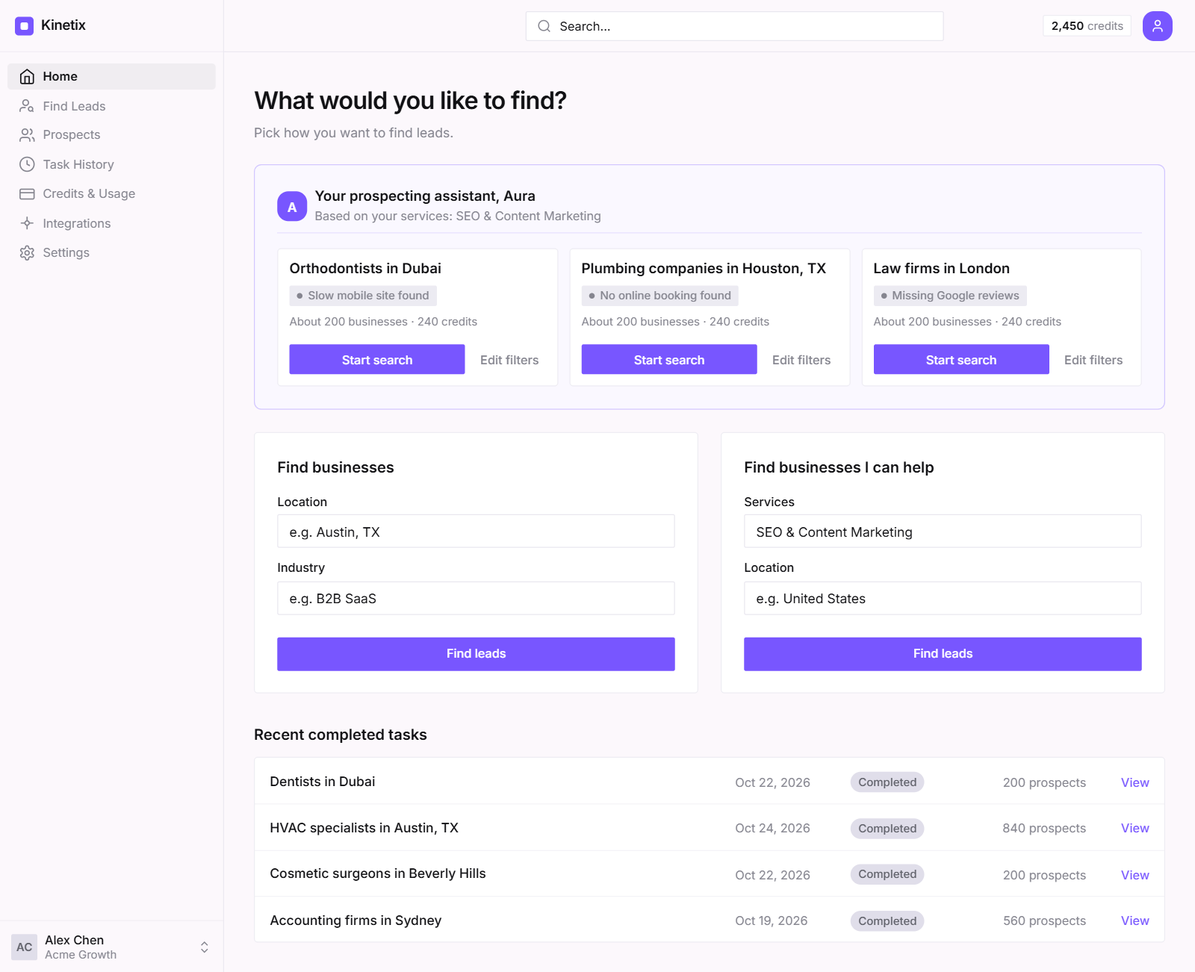
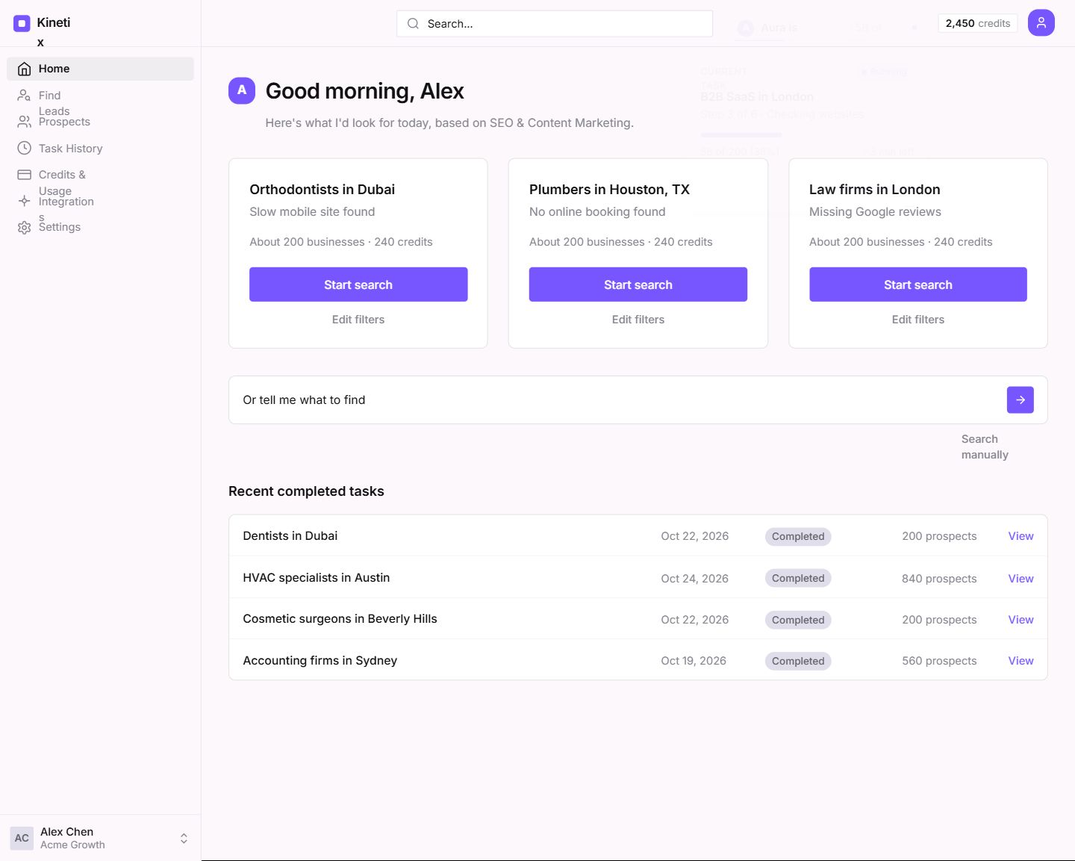
feat(dashboard): configure Kinetix design tokens and typography

diff --git a/apps/dashboard/design-reference/home.html b/apps/dashboard/design-reference/home.html
@@ -73,65 +73,105 @@
       } 
     } 
   } 
-};</script></head><body class="bg-background text-[#111114] antialiased"><aside class="fixed left-0 top-0 h-full w-60 bg-surface border-r border-outline-variant/30 z-50 flex flex-col justify-between"><div class="flex flex-col"><div class="h-14 flex items-center px-space-lg border-b border-outline-variant/20"><div class="flex items-center gap-space-sm"><div class="w-5 h-5 rounded-lg bg-primary-container flex items-center justify-center"><div class="w-2 h-2 rounded bg-white"></div></div><span class="text-[15px] font-semibold tracking-tight text-[#111114]">Kinetix</span></div></div><nav class="flex flex-col gap-space-xs px-space-sm py-space-md" data-active-classes="bg-surface-container text-[#111114] font-semibold"><a aria-current="page" class="flex items-center gap-space-sm px-space-md py-space-xs rounded-lg transition-colors bg-surface-container text-[#111114] font-semibold text-[13px]" data-path="home" href="#"><svg class="w-[18px] h-[18px] shrink-0 text-[#111114]" fill="none" stroke="currentColor" stroke-width="1.8" viewBox="0 0 24 24"><path d="m3 9 9-7 9 7v11a2 2 0 0 1-2 2H5a2 2 0 0 1-2-2z"></path><polyline points="9 22 9 12 15 12 15 22"></polyline></svg><span class="">Home</span></a><a class="flex items-center gap-space-sm px-space-md py-space-xs rounded-lg text-[13px] text-[#85858F] hover:bg-surface-container-high hover:text-[#111114] transition-colors" data-path="find-leads" href="#"><svg class="w-[18px] h-[18px] shrink-0" fill="none" stroke="currentColor" stroke-width="1.8" viewBox="0 0 24 24"><circle cx="10" cy="8" r="4"></circle><path d="M2 21v-2a4 4 0 0 1 4-4h4"></path><circle cx="17" cy="17" r="3"></circle><path d="m21 21-1.5-1.5"></path></svg><span class="">Find Leads</span></a><a class="flex items-center gap-space-sm px-space-md py-space-xs rounded-lg text-[13px] text-[#85858F] hover:bg-surface-container-high hover:text-[#111114] transition-colors" data-path="prospects" href="#"><svg class="w-[18px] h-[18px] shrink-0" fill="none" stroke="currentColor" stroke-width="1.8" viewBox="0 0 24 24"><path d="M16 21v-2a4 4 0 0 0-4-4H6a4 4 0 0 0-4 4v2"></path><circle cx="9" cy="7" r="4"></circle><path d="M22 21v-2a4 4 0 0 0-3-3.87"></path><path d="M16 3.13a4 4 0 0 1 0 7.75"></path></svg><span class="">Prospects</span></a><a class="flex items-center gap-space-sm px-space-md py-space-xs rounded-lg text-[13px] text-[#85858F] hover:bg-surface-container-high hover:text-[#111114] transition-colors" data-path="task-history" href="#"><svg class="w-[18px] h-[18px] shrink-0" fill="none" stroke="currentColor" stroke-width="1.8" viewBox="0 0 24 24"><circle cx="12" cy="12" r="10"></circle><polyline points="12 6 12 12 16 14"></polyline></svg><span class="">Task History</span></a><a class="flex items-center gap-space-sm px-space-md py-space-xs rounded-lg text-[13px] text-[#85858F] hover:bg-surface-container-high hover:text-[#111114] transition-colors" data-path="credits-&amp;-usage" href="#"><svg class="w-[18px] h-[18px] shrink-0" fill="none" stroke="currentColor" stroke-width="1.8" viewBox="0 0 24 24"><rect width="20" height="14" x="2" y="5" rx="2"></rect><line x1="2" x2="22" y1="10" y2="10"></line></svg><span class="">Credits &amp; Usage</span></a><a class="flex items-center gap-space-sm px-space-md py-space-xs rounded-lg text-[13px] text-[#85858F] hover:bg-surface-container-high hover:text-[#111114] transition-colors" data-path="integrations" href="#"><svg class="w-[18px] h-[18px] shrink-0" fill="none" stroke="currentColor" stroke-width="1.8" viewBox="0 0 24 24"><circle cx="12" cy="12" r="3"></circle><path d="M12 3v6m0 6v6M3 12h6m6 0h6"></path></svg><span class="">Integrations</span></a><a class="flex items-center gap-space-sm px-space-md py-space-xs rounded-lg text-[13px] text-[#85858F] hover:bg-surface-container-high hover:text-[#111114] transition-colors" data-path="settings" href="#"><svg class="w-[18px] h-[18px] shrink-0" fill="none" stroke="currentColor" stroke-width="1.8" viewBox="0 0 24 24"><path d="M12.22 2h-.44a2 2 0 0 0-2 2v.18a2 2 0 0 1-1 1.73l-.43.25a2 2 0 0 1-2 0l-.15-.08a2 2 0 0 0-2.73.73l-.22.38a2 2 0 0 0 .73 2.73l.15.1a2 2 0 0 1 1 1.72v.51a2 2 0 0 1-1 1.74l-.15.09a2 2 0 0 0-.73 2.73l.22.38a2 2 0 0 0 2.73.73l.15-.08a2 2 0 0 1 2 0l.43.25a2 2 0 0 1 1 1.73V20a2 2 0 0 0 2 2h.44a2 2 0 0 0 2-2v-.18a2 2 0 0 1 1-1.73l.43-.25a2 2 0 0 1 2 0l.15.08a2 2 0 0 0 2.73-.73l.22-.39a2 2 0 0 0-.73-2.73l-.15-.08a2 2 0 0 1-1-1.74v-.5a2 2 0 0 1 1-1.74l.15-.09a2 2 0 0 0 .73-2.73l-.22-.38a2 2 0 0 0-2.73-.73l-.15.08a2 2 0 0 1-2 0l-.43-.25a2 2 0 0 1-1-1.73V4a2 2 0 0 0-2-2z"></path><circle cx="12" cy="12" r="3"></circle></svg><span class="">Settings</span></a></nav></div><div class="p-space-sm border-t border-outline-variant/20"><button class="w-full flex items-center justify-between p-space-xs rounded-lg hover:bg-surface-container transition-colors text-left" type="button"><div class="flex items-center gap-space-sm min-w-0 flex-1"><div class="w-7 h-7 rounded bg-secondary-container flex items-center justify-center shrink-0"><span class="text-[12px] text-on-secondary-container font-semibold">AC</span></div><div class="flex flex-col truncate"><span class="text-[13px] text-[#111114] font-medium truncate leading-tight">Alex Chen</span><span class="text-[12px] text-[#85858F] truncate leading-tight">Acme Growth</span></div></div><svg class="w-4 h-4 text-[#85858F] shrink-0 ml-1" fill="none" stroke="currentColor" stroke-width="1.8" viewBox="0 0 24 24"><path d="m7 15 5 5 5-5"></path><path d="m7 9 5-5 5 5"></path></svg></button></div></aside><div class="pl-60 min-h-screen flex flex-col"><header class="fixed top-0 left-60 right-0 h-14 bg-surface/95 backdrop-blur-sm border-b border-outline-variant/30 z-40 px-space-xl flex items-center justify-between gap-space-lg"><div class="w-48 shrink-0"></div><div class="flex-1 max-w-md"><div class="relative flex items-center"><svg class="w-4 h-4 absolute left-3 text-[#85858F] pointer-events-none" fill="none" stroke="currentColor" stroke-width="1.8" viewBox="0 0 24 24"><circle cx="11" cy="11" r="8"></circle><path d="m21 21-4.3-4.3"></path></svg><input class="w-full h-8 pl-9 pr-space-md bg-surface-container-lowest border border-outline-variant/40 rounded text-[13px] text-[#111114] placeholder:text-[#85858F] focus:outline-none focus:border-[#7856FF] transition-colors" placeholder="Search..." type="text"></div></div><div class="flex items-center gap-space-md shrink-0"><div class="flex items-center gap-space-xs px-space-sm py-0.5 border border-outline-variant/30 rounded bg-surface-container-lowest"><span class="text-[12px] text-[#111114] font-semibold">2,450</span><span class="text-[12px] text-[#85858F]">credits</span></div><div class="w-8 h-8 rounded-full bg-[#7856FF] flex items-center justify-center text-white shadow-xs"><svg class="w-4 h-4" fill="none" stroke="currentColor" stroke-width="2" viewBox="0 0 24 24"><path d="M19 21v-2a4 4 0 0 0-4-4H9a4 4 0 0 0-4 4v2"></path><circle cx="12" cy="7" r="4"></circle></svg></div></div></header><main class="w-full pt-14 flex-1"><div class="flex flex-col w-full">
+};</script></head><body class="bg-background text-[#111114] antialiased"><aside class="fixed left-0 top-0 h-full w-60 bg-surface border-r border-outline-variant/30 z-50 flex flex-col justify-between"><div class="flex flex-col"><div class="h-14 flex items-center px-space-lg border-b border-outline-variant/20"><div class="flex items-center gap-space-sm"><div class="w-5 h-5 rounded-lg bg-primary-container flex items-center justify-center"><div class="w-2 h-2 rounded bg-white"></div></div><span class="text-[15px] font-semibold tracking-tight text-[#111114]">Kinetix</span></div></div><nav class="flex flex-col gap-space-xs px-space-sm py-space-md" data-active-classes="bg-surface-container text-[#111114] font-semibold"><a aria-current="page" class="flex items-center gap-space-sm px-space-md py-space-xs rounded-lg transition-colors bg-surface-container text-[#111114] font-semibold text-[13px]" data-path="home" href="#"><svg class="w-[18px] h-[18px] shrink-0 text-[#111114]" fill="none" stroke="currentColor" stroke-width="1.8" viewBox="0 0 24 24"><path d="m3 9 9-7 9 7v11a2 2 0 0 1-2 2H5a2 2 0 0 1-2-2z"></path><polyline points="9 22 9 12 15 12 15 22"></polyline></svg><span class="">Home</span></a><a class="flex items-center gap-space-sm px-space-md py-space-xs rounded-lg text-[13px] text-[#85858F] hover:bg-surface-container-high hover:text-[#111114] transition-colors" data-path="find-leads" href="#"><svg class="w-[18px] h-[18px] shrink-0" fill="none" stroke="currentColor" stroke-width="1.8" viewBox="0 0 24 24"><circle cx="10" cy="8" r="4"></circle><path d="M2 21v-2a4 4 0 0 1 4-4h4"></path><circle cx="17" cy="17" r="3"></circle><path d="m21 21-1.5-1.5"></path></svg><span class="">Find Leads</span></a><a class="flex items-center gap-space-sm px-space-md py-space-xs rounded-lg text-[13px] text-[#85858F] hover:bg-surface-container-high hover:text-[#111114] transition-colors" data-path="prospects" href="#"><svg class="w-[18px] h-[18px] shrink-0" fill="none" stroke="currentColor" stroke-width="1.8" viewBox="0 0 24 24"><path d="M16 21v-2a4 4 0 0 0-4-4H6a4 4 0 0 0-4 4v2"></path><circle cx="9" cy="7" r="4"></circle><path d="M22 21v-2a4 4 0 0 0-3-3.87"></path><path d="M16 3.13a4 4 0 0 1 0 7.75"></path></svg><span class="">Prospects</span></a><a class="flex items-center gap-space-sm px-space-md py-space-xs rounded-lg text-[13px] text-[#85858F] hover:bg-surface-container-high hover:text-[#111114] transition-colors" data-path="task-history" href="#"><svg class="w-[18px] h-[18px] shrink-0" fill="none" stroke="currentColor" stroke-width="1.8" viewBox="0 0 24 24"><circle cx="12" cy="12" r="10"></circle><polyline points="12 6 12 12 16 14"></polyline></svg><span class="">Task History</span></a><a class="flex items-center gap-space-sm px-space-md py-space-xs rounded-lg text-[13px] text-[#85858F] hover:bg-surface-container-high hover:text-[#111114] transition-colors" data-path="credits-&amp;-usage" href="#"><svg class="w-[18px] h-[18px] shrink-0" fill="none" stroke="currentColor" stroke-width="1.8" viewBox="0 0 24 24"><rect height="14" rx="2" width="20" x="2" y="5"></rect><line x1="2" x2="22" y1="10" y2="10"></line></svg><span class="">Credits &amp; Usage</span></a><a class="flex items-center gap-space-sm px-space-md py-space-xs rounded-lg text-[13px] text-[#85858F] hover:bg-surface-container-high hover:text-[#111114] transition-colors" data-path="integrations" href="#"><svg class="w-[18px] h-[18px] shrink-0" fill="none" stroke="currentColor" stroke-width="1.8" viewBox="0 0 24 24"><circle cx="12" cy="12" r="3"></circle><path d="M12 3v6m0 6v6M3 12h6m6 0h6"></path></svg><span class="">Integrations</span></a><a class="flex items-center gap-space-sm px-space-md py-space-xs rounded-lg text-[13px] text-[#85858F] hover:bg-surface-container-high hover:text-[#111114] transition-colors" data-path="settings" href="#"><svg class="w-[18px] h-[18px] shrink-0" fill="none" stroke="currentColor" stroke-width="1.8" viewBox="0 0 24 24"><path d="M12.22 2h-.44a2 2 0 0 0-2 2v.18a2 2 0 0 1-1 1.73l-.43.25a2 2 0 0 1-2 0l-.15-.08a2 2 0 0 0-2.73.73l-.22.38a2 2 0 0 0 .73 2.73l.15.1a2 2 0 0 1 1 1.72v.51a2 2 0 0 1-1 1.74l-.15.09a2 2 0 0 0-.73 2.73l.22.38a2 2 0 0 0 2.73.73l.15-.08a2 2 0 0 1 2 0l.43.25a2 2 0 0 1 1 1.73V20a2 2 0 0 0 2 2h.44a2 2 0 0 0 2-2v-.18a2 2 0 0 1 1-1.73l.43-.25a2 2 0 0 1 2 0l.15.08a2 2 0 0 0 2.73-.73l.22-.39a2 2 0 0 0-.73-2.73l-.15-.08a2 2 0 0 1-1-1.74v-.5a2 2 0 0 1 1-1.74l.15-.09a2 2 0 0 0 .73-2.73l-.22-.38a2 2 0 0 0-2.73-.73l-.15.08a2 2 0 0 1-2 0l-.43-.25a2 2 0 0 1-1-1.73V4a2 2 0 0 0-2-2z"></path><circle cx="12" cy="12" r="3"></circle></svg><span class="">Settings</span></a></nav></div><div class="p-space-sm border-t border-outline-variant/20"><button class="w-full flex items-center justify-between p-space-xs rounded-lg hover:bg-surface-container transition-colors text-left" type="button"><div class="flex items-center gap-space-sm min-w-0 flex-1"><div class="w-7 h-7 rounded bg-secondary-container flex items-center justify-center shrink-0"><span class="text-[12px] text-on-secondary-container font-semibold">AC</span></div><div class="flex flex-col truncate"><span class="text-[13px] text-[#111114] font-medium truncate leading-tight">Alex Chen</span><span class="text-[12px] text-[#85858F] truncate leading-tight">Acme Growth</span></div></div><svg class="w-4 h-4 text-[#85858F] shrink-0 ml-1" fill="none" stroke="currentColor" stroke-width="1.8" viewBox="0 0 24 24"><path d="m7 15 5 5 5-5"></path><path d="m7 9 5-5 5 5"></path></svg></button></div></aside><div class="pl-60 min-h-screen flex flex-col"><header class="fixed top-0 left-60 right-0 h-14 bg-surface/95 backdrop-blur-sm border-b border-outline-variant/30 z-40 px-space-xl flex items-center justify-between gap-space-lg"><div class="w-48 shrink-0"></div><div class="flex-1 max-w-md"><div class="relative flex items-center"><svg class="w-4 h-4 absolute left-3 text-[#85858F] pointer-events-none" fill="none" stroke="currentColor" stroke-width="1.8" viewBox="0 0 24 24"><circle cx="11" cy="11" r="8"></circle><path d="m21 21-4.3-4.3"></path></svg><input class="w-full h-8 pl-9 pr-space-md bg-surface-container-lowest border border-outline-variant/40 rounded text-[13px] text-[#111114] placeholder:text-[#85858F] focus:outline-none focus:border-[#7856FF] transition-colors" placeholder="Search..." type="text"></div></div><div class="flex items-center gap-space-md shrink-0"><div class="relative flex items-center"><div class="relative flex items-center gap-2 px-3 py-1.5 rounded-full border border-neutral-200 bg-white shadow-xs cursor-pointer overflow-hidden"><div class="w-5 h-5 rounded-full bg-[#7856FF] text-white flex items-center justify-center text-[11px] font-bold shrink-0">A</div><span class="text-[13px] font-medium text-[#111114]">Aura is working</span><span class="text-[13px] text-[#85858F]">· 58 of 200</span><span class="w-1.5 h-1.5 rounded-full bg-[#7856FF] animate-pulse shrink-0"></span><div class="absolute bottom-0 left-0 right-0 h-[2px] bg-neutral-100"><div class="h-full bg-[#7856FF] rounded-full" style="width: 29%;"></div></div></div><div class="absolute right-0 top-full mt-2 w-72 bg-white border border-neutral-200 rounded-xl p-4 shadow-lg z-50 text-left"><div class="flex items-center justify-between mb-2"><span class="text-[11px] font-semibold tracking-wider text-[#85858F] uppercase">CURRENT TASK</span><span class="inline-flex items-center gap-1 px-2 py-0.5 rounded-full bg-[#7856FF]/10 text-[#7856FF] text-[11px] font-semibold"><span class="w-1.5 h-1.5 rounded-full bg-[#7856FF]"></span>Running</span></div><div class="text-[14px] font-semibold text-[#111114] mb-0.5">B2B SaaS in London</div><div class="text-[13px] text-[#85858F] mb-3">Step 3 of 6 · Checking websites</div><div class="w-full bg-neutral-100 h-1.5 rounded-full overflow-hidden mb-2"><div class="bg-[#7856FF] h-full rounded-full" style="width: 38%;"></div></div><div class="flex items-center justify-between text-[12px] text-[#85858F] mb-3"><span class="">58 of 200 (38%)</span><span class="">~3 min left</span></div><div class="pt-2 border-t border-neutral-100 text-right"><a href="#" class="text-[13px] font-medium text-[#7856FF] hover:underline inline-flex items-center gap-1">View progress →</a></div></div></div><div class="flex items-center gap-space-xs px-space-sm py-0.5 border border-outline-variant/30 rounded bg-surface-container-lowest"><span class="text-[12px] text-[#111114] font-semibold">2,450</span><span class="text-[12px] text-[#85858F]">credits</span></div><div class="w-8 h-8 rounded-full bg-[#7856FF] flex items-center justify-center text-white shadow-xs"><svg class="w-4 h-4" fill="none" stroke="currentColor" stroke-width="2" viewBox="0 0 24 24"><path d="M19 21v-2a4 4 0 0 0-4-4H9a4 4 0 0 0-4 4v2"></path><circle cx="12" cy="7" r="4"></circle></svg></div></div></header><main class="w-full pt-14 flex-1"><div class="flex flex-col w-full">
 <div class="w-full max-w-5xl mx-auto px-space-xl py-space-2xl">
-<div class="mb-space-xl">
-<h1 class="text-[26px] font-semibold tracking-tight text-[#111114]">What would you like to find?</h1>
-<p class="text-[14px] text-[#85858F] mt-space-xs">Pick how you want to find leads.</p>
+<!-- Top Greeting Section -->
+<div class="mb-8">
+<div class="flex items-center gap-3 mb-2">
+<div class="w-8 h-8 rounded-full bg-[#7856FF] text-white flex items-center justify-center text-[15px] font-bold shrink-0">A</div>
+<h1 class="text-[26px] font-semibold tracking-tight text-[#111114]">Good morning, Alex</h1>
 </div>
-<!-- AI Prospecting Employee Section -->
-<div class="bg-[#FAF8FF] border border-[#7856FF]/30 rounded-xl p-space-xl mb-space-xl shadow-xs"><div class="flex items-center justify-between mb-space-lg pb-space-sm border-b border-[#7856FF]/15"><div class="flex items-center gap-space-sm"><div class="w-8 h-8 rounded-full bg-[#7856FF] text-white flex items-center justify-center text-[14px] font-semibold tracking-wide shrink-0 shadow-xs">A</div><div><h2 class="text-[15px] font-semibold text-[#111114] leading-tight">Your prospecting assistant, Aura</h2><p class="text-[13px] text-[#85858F] leading-normal mt-0.5">Based on your services: SEO &amp; Content Marketing</p></div></div></div><div class="grid grid-cols-1 md:grid-cols-3 gap-space-md mt-space-md"><div class="bg-surface-container-lowest border border-outline-variant/30 rounded-lg p-space-md flex flex-col justify-between shadow-xs"><div class="mb-space-md"><h3 class="text-[15px] font-semibold text-[#111114] leading-tight mb-1 truncate">Orthodontists in Dubai</h3><div class="inline-flex items-center gap-1.5 px-2 py-0.5 rounded bg-secondary-container/60 text-[#85858F] text-[12px] font-medium mb-space-sm"><span class="w-1.5 h-1.5 rounded-full bg-[#85858F]"></span><span class="">Slow mobile site found</span></div><p class="text-[12px] text-[#85858F]">About 200 businesses · 240 credits</p></div><div class="flex items-center gap-space-sm pt-space-xs"><button class="flex-1 h-8 bg-[#7856FF] text-white text-[13px] font-medium rounded hover:opacity-95 transition-opacity flex items-center justify-center" type="button">Start search</button><button class="px-2 py-1 text-[13px] text-[#85858F] hover:text-[#111114] transition-colors font-medium" type="button">Edit filters</button></div></div><div class="bg-surface-container-lowest border border-outline-variant/30 rounded-lg p-space-md flex flex-col justify-between shadow-xs"><div class="mb-space-md"><h3 class="text-[15px] font-semibold text-[#111114] leading-tight mb-1 truncate">Plumbing companies in Houston, TX</h3><div class="inline-flex items-center gap-1.5 px-2 py-0.5 rounded bg-secondary-container/60 text-[#85858F] text-[12px] font-medium mb-space-sm"><span class="w-1.5 h-1.5 rounded-full bg-[#85858F]"></span><span class="">No online booking found</span></div><p class="text-[12px] text-[#85858F]">About 200 businesses · 240 credits</p></div><div class="flex items-center gap-space-sm pt-space-xs"><button class="flex-1 h-8 bg-[#7856FF] text-white text-[13px] font-medium rounded hover:opacity-95 transition-opacity flex items-center justify-center" type="button">Start search</button><button class="px-2 py-1 text-[13px] text-[#85858F] hover:text-[#111114] transition-colors font-medium" type="button">Edit filters</button></div></div><div class="bg-surface-container-lowest border border-outline-variant/30 rounded-lg p-space-md flex flex-col justify-between shadow-xs"><div class="mb-space-md"><h3 class="text-[15px] font-semibold text-[#111114] leading-tight mb-1 truncate">Law firms in London</h3><div class="inline-flex items-center gap-1.5 px-2 py-0.5 rounded bg-secondary-container/60 text-[#85858F] text-[12px] font-medium mb-space-sm"><span class="w-1.5 h-1.5 rounded-full bg-[#85858F]"></span><span class="">Missing Google reviews</span></div><p class="text-[12px] text-[#85858F]">About 200 businesses · 240 credits</p></div><div class="flex items-center gap-space-sm pt-space-xs"><button class="flex-1 h-8 bg-[#7856FF] text-white text-[13px] font-medium rounded hover:opacity-95 transition-opacity flex items-center justify-center" type="button">Start search</button><button class="px-2 py-1 text-[13px] text-[#85858F] hover:text-[#111114] transition-colors font-medium" type="button">Edit filters</button></div></div></div></div>
-<div class="grid grid-cols-1 md:grid-cols-2 gap-space-xl mb-space-2xl">
-<div class="bg-surface-container-lowest border border-outline-variant/30 rounded-lg p-space-xl flex flex-col justify-between">
+<p class="text-[14px] text-[#85858F] pl-11">Here's what I'd look for today, based on SEO &amp; Content Marketing.</p>
+</div>
+<!-- 3 Suggestion Cards -->
+<div class="grid grid-cols-1 md:grid-cols-3 gap-6 mb-8"><div class="bg-white border border-neutral-200 rounded-xl p-6 flex flex-col justify-between shadow-xs h-full"><div><h3 class="text-[16px] font-semibold text-[#111114]">Orthodontists in Dubai</h3><p class="text-[14px] text-[#85858F] mt-1">Slow mobile site found</p><p class="text-[13px] text-[#85858F] mt-4 mb-5">About 200 businesses · 240 credits</p></div><div class="flex flex-col mt-auto"><button class="w-full bg-[#7856FF] hover:bg-[#6846EF] text-white py-2.5 rounded-lg font-medium text-[14px] transition-colors" type="button">Start search</button><button class="text-center text-[13px] text-[#85858F] hover:text-[#111114] mt-3 font-medium cursor-pointer transition-colors bg-transparent border-0" type="button">Edit filters</button></div></div><div class="bg-white border border-neutral-200 rounded-xl p-6 flex flex-col justify-between shadow-xs h-full"><div><h3 class="text-[16px] font-semibold text-[#111114]">Plumbers in Houston, TX</h3><p class="text-[14px] text-[#85858F] mt-1">No online booking found</p><p class="text-[13px] text-[#85858F] mt-4 mb-5">About 200 businesses · 240 credits</p></div><div class="flex flex-col mt-auto"><button class="w-full bg-[#7856FF] hover:bg-[#6846EF] text-white py-2.5 rounded-lg font-medium text-[14px] transition-colors" type="button">Start search</button><button class="text-center text-[13px] text-[#85858F] hover:text-[#111114] mt-3 font-medium cursor-pointer transition-colors bg-transparent border-0" type="button">Edit filters</button></div></div><div class="bg-white border border-neutral-200 rounded-xl p-6 flex flex-col justify-between shadow-xs h-full"><div><h3 class="text-[16px] font-semibold text-[#111114]">Law firms in London</h3><p class="text-[14px] text-[#85858F] mt-1">Missing Google reviews</p><p class="text-[13px] text-[#85858F] mt-4 mb-5">About 200 businesses · 240 credits</p></div><div class="flex flex-col mt-auto"><button class="w-full bg-[#7856FF] hover:bg-[#6846EF] text-white py-2.5 rounded-lg font-medium text-[14px] transition-colors" type="button">Start search</button><button class="text-center text-[13px] text-[#85858F] hover:text-[#111114] mt-3 font-medium cursor-pointer transition-colors bg-transparent border-0" type="button">Edit filters</button></div></div></div>
+<!-- Input container -->
+<div class="mb-10">
+<div class="border border-neutral-200 rounded-xl bg-white px-4 py-2 flex items-center justify-between shadow-xs w-full">
+<input class="w-full text-[14px] text-[#111114] placeholder:text-[#85858F] border-0 focus:outline-none focus:ring-0 bg-transparent py-2 px-0" placeholder="Or tell me what to find" type="text">
+<button class="bg-[#7856FF] hover:bg-[#6846EF] text-white p-2 rounded-lg shrink-0 ml-3 transition-colors" type="button">
+<svg class="w-4 h-4" fill="none" stroke="currentColor" stroke-width="2" viewBox="0 0 24 24"><line x1="5" x2="19" y1="12" y2="12"></line><polyline points="12 5 19 12 12 19"></polyline></svg>
+</button>
+</div>
+<div class="flex justify-end mt-2">
+<a class="text-[13px] text-[#85858F] hover:text-[#111114] transition-colors font-medium cursor-pointer" href="#">Search manually</a>
+</div>
+</div>
+<!-- Recent completed tasks -->
 <div>
-<h2 class="text-[16px] font-semibold text-[#111114] mb-space-lg">Find businesses</h2>
-<div class="space-y-space-md">
-<div>
-<label class="block text-[13px] font-medium text-[#111114] mb-space-xs">Location</label>
-<input class="w-full h-9 px-space-md bg-surface-container-lowest border border-outline-variant/40 rounded text-[14px] text-[#111114] placeholder:text-[#85858F] focus:outline-none focus:border-[#7856FF] transition-colors" placeholder="e.g. Austin, TX" type="text">
+<h2 class="text-[16px] font-semibold text-[#111114] mb-4">Recent completed tasks</h2>
+<div class="bg-white border border-neutral-200 rounded-xl overflow-hidden divide-y divide-neutral-100 shadow-xs">
+<div class="px-space-lg py-space-md flex items-center justify-between gap-space-md hover:bg-neutral-50/70 transition-colors">
+<div class="min-w-0 flex-1">
+<span class="text-[14px] text-[#111114] font-medium block truncate">Dentists in Dubai</span>
 </div>
-<div>
-<label class="block text-[13px] font-medium text-[#111114] mb-space-xs">Industry</label>
-<input class="w-full h-9 px-space-md bg-surface-container-lowest border border-outline-variant/40 rounded text-[14px] text-[#111114] placeholder:text-[#85858F] focus:outline-none focus:border-[#7856FF] transition-colors" placeholder="e.g. B2B SaaS" type="text">
+<div class="w-28 shrink-0">
+<span class="text-[13px] text-[#85858F]">Oct 22, 2026</span>
 </div>
+<div class="w-28 shrink-0">
+<span class="inline-block px-space-sm py-0.5 rounded-full bg-secondary-container text-[12px] text-[#61626b] font-medium">Completed</span>
 </div>
+<div class="w-32 shrink-0 text-right">
+<span class="text-[13px] text-[#85858F]">200 prospects</span>
 </div>
-<div class="pt-space-xl">
-<button class="w-full h-9 bg-[#7856FF] text-white text-[13px] font-medium rounded flex items-center justify-center hover:opacity-95 transition-opacity" type="button">
-            Find leads
-          </button>
-</div>
-</div>
-<div class="bg-surface-container-lowest border border-outline-variant/30 rounded-lg p-space-xl flex flex-col justify-between">
-<div>
-<h2 class="text-[16px] font-semibold text-[#111114] mb-space-lg">Find businesses I can help</h2>
-<div class="space-y-space-md">
-<div>
-<label class="block text-[13px] font-medium text-[#111114] mb-space-xs">Services</label>
-<input class="w-full h-9 px-space-md bg-surface-container-lowest border border-outline-variant/40 rounded text-[14px] text-[#111114] focus:outline-none focus:border-[#7856FF] transition-colors" type="text" value="SEO &amp; Content Marketing">
-</div>
-<div>
-<label class="block text-[13px] font-medium text-[#111114] mb-space-xs">Location</label>
-<input class="w-full h-9 px-space-md bg-surface-container-lowest border border-outline-variant/40 rounded text-[14px] text-[#111114] placeholder:text-[#85858F] focus:outline-none focus:border-[#7856FF] transition-colors" placeholder="e.g. United States" type="text">
+<div class="w-14 shrink-0 text-right">
+<a class="text-[13px] font-medium text-[#7856FF] hover:underline transition-colors" href="#">View</a>
 </div>
 </div>
+<div class="px-space-lg py-space-md flex items-center justify-between gap-space-md hover:bg-neutral-50/70 transition-colors">
+<div class="min-w-0 flex-1">
+<span class="text-[14px] text-[#111114] font-medium block truncate">HVAC specialists in Austin</span>
 </div>
-<div class="pt-space-xl">
-<button class="w-full h-9 bg-[#7856FF] text-white text-[13px] font-medium rounded flex items-center justify-center hover:opacity-95 transition-opacity" type="button">
-            Find leads
-          </button>
+<div class="w-28 shrink-0">
+<span class="text-[13px] text-[#85858F]">Oct 24, 2026</span>
+</div>
+<div class="w-28 shrink-0">
+<span class="inline-block px-space-sm py-0.5 rounded-full bg-secondary-container text-[12px] text-[#61626b] font-medium">Completed</span>
+</div>
+<div class="w-32 shrink-0 text-right">
+<span class="text-[13px] text-[#85858F]">840 prospects</span>
+</div>
+<div class="w-14 shrink-0 text-right">
+<a class="text-[13px] font-medium text-[#7856FF] hover:underline transition-colors" href="#">View</a>
+</div>
+</div>
+<div class="px-space-lg py-space-md flex items-center justify-between gap-space-md hover:bg-neutral-50/70 transition-colors">
+<div class="min-w-0 flex-1">
+<span class="text-[14px] text-[#111114] font-medium block truncate">Cosmetic surgeons in Beverly Hills</span>
+</div>
+<div class="w-28 shrink-0">
+<span class="text-[13px] text-[#85858F]">Oct 22, 2026</span>
+</div>
+<div class="w-28 shrink-0">
+<span class="inline-block px-space-sm py-0.5 rounded-full bg-secondary-container text-[12px] text-[#61626b] font-medium">Completed</span>
+</div>
+<div class="w-32 shrink-0 text-right">
+<span class="text-[13px] text-[#85858F]">200 prospects</span>
+</div>
+<div class="w-14 shrink-0 text-right">
+<a class="text-[13px] font-medium text-[#7856FF] hover:underline transition-colors" href="#">View</a>
+</div>
+</div>
+<div class="px-space-lg py-space-md flex items-center justify-between gap-space-md hover:bg-neutral-50/70 transition-colors">
+<div class="min-w-0 flex-1">
+<span class="text-[14px] text-[#111114] font-medium block truncate">Accounting firms in Sydney</span>
+</div>
+<div class="w-28 shrink-0">
+<span class="text-[13px] text-[#85858F]">Oct 19, 2026</span>
+</div>
+<div class="w-28 shrink-0">
+<span class="inline-block px-space-sm py-0.5 rounded-full bg-secondary-container text-[12px] text-[#61626b] font-medium">Completed</span>
+</div>
+<div class="w-32 shrink-0 text-right">
+<span class="text-[13px] text-[#85858F]">560 prospects</span>
+</div>
+<div class="w-14 shrink-0 text-right">
+<a class="text-[13px] font-medium text-[#7856FF] hover:underline transition-colors" href="#">View</a>
 </div>
 </div>
 </div>
-<div>
-<h2 class="text-[16px] font-semibold text-[#111114] mb-space-md">Recent completed tasks</h2>
-<div class="bg-surface-container-lowest border border-outline-variant/30 rounded-lg overflow-hidden divide-y divide-outline-variant/20"><div class="px-space-lg py-space-md flex items-center justify-between gap-space-md hover:bg-surface-container transition-colors"><div class="min-w-0 flex-1"><span class="text-[14px] text-[#111114] font-medium block truncate">Dentists in Dubai</span></div><div class="w-28 shrink-0"><span class="text-[13px] text-[#85858F]">Oct 22, 2026</span></div><div class="w-28 shrink-0"><span class="inline-block px-space-sm py-0.5 rounded-full bg-secondary-container text-[12px] text-[#61626b] font-medium">Completed</span></div><div class="w-32 shrink-0 text-right"><span class="text-[13px] text-[#85858F]">200 prospects</span></div><div class="w-14 shrink-0 text-right"><a class="text-[13px] font-medium text-[#7856FF] hover:underline transition-colors" href="#">View</a></div></div><div class="px-space-lg py-space-md flex items-center justify-between gap-space-md hover:bg-surface-container transition-colors"><div class="min-w-0 flex-1"><span class="text-[14px] text-[#111114] font-medium block truncate">HVAC specialists in Austin, TX</span></div><div class="w-28 shrink-0"><span class="text-[13px] text-[#85858F]">Oct 24, 2026</span></div><div class="w-28 shrink-0"><span class="inline-block px-space-sm py-0.5 rounded-full bg-secondary-container text-[12px] text-[#61626b] font-medium">Completed</span></div><div class="w-32 shrink-0 text-right"><span class="text-[13px] text-[#85858F]">840 prospects</span></div><div class="w-14 shrink-0 text-right"><a class="text-[13px] font-medium text-[#7856FF] hover:underline transition-colors" href="#">View</a></div></div><div class="px-space-lg py-space-md flex items-center justify-between gap-space-md hover:bg-surface-container transition-colors"><div class="min-w-0 flex-1"><span class="text-[14px] text-[#111114] font-medium block truncate">Cosmetic surgeons in Beverly Hills</span></div><div class="w-28 shrink-0"><span class="text-[13px] text-[#85858F]">Oct 22, 2026</span></div><div class="w-28 shrink-0"><span class="inline-block px-space-sm py-0.5 rounded-full bg-secondary-container text-[12px] text-[#61626b] font-medium">Completed</span></div><div class="w-32 shrink-0 text-right"><span class="text-[13px] text-[#85858F]">200 prospects</span></div><div class="w-14 shrink-0 text-right"><a class="text-[13px] font-medium text-[#7856FF] hover:underline transition-colors" href="#">View</a></div></div><div class="px-space-lg py-space-md flex items-center justify-between gap-space-md hover:bg-surface-container transition-colors"><div class="min-w-0 flex-1"><span class="text-[14px] text-[#111114] font-medium block truncate">Accounting firms in Sydney</span></div><div class="w-28 shrink-0"><span class="text-[13px] text-[#85858F]">Oct 19, 2026</span></div><div class="w-28 shrink-0"><span class="inline-block px-space-sm py-0.5 rounded-full bg-secondary-container text-[12px] text-[#61626b] font-medium">Completed</span></div><div class="w-32 shrink-0 text-right"><span class="text-[13px] text-[#85858F]">560 prospects</span></div><div class="w-14 shrink-0 text-right"><a class="text-[13px] font-medium text-[#7856FF] hover:underline transition-colors" href="#">View</a></div></div></div>
 </div>
 </div>
 </div></main></div>
-
-
-
-
 
 </body></html>

diff --git a/apps/dashboard/src/index.css b/apps/dashboard/src/index.css
@@ -1,13 +1,80 @@
 /*
  * App-level entry. Design tokens + Tailwind layers come from the shared
- * design system (@rove/ui/styles.css). Keep only app-specific base here.
+ * design system (@rove/ui/styles.css).
+ * Kinetix (Kinetic Obsidian) Light Theme token overrides are scoped exclusively
+ * to this dashboard application.
  */
 @import "@rove/ui/styles.css";
 
 @layer base {
+  :root {
+    /* Kinetic Obsidian Light Theme Tokens */
+    --background: 60 12% 97.6%; /* #FAFAF8 - Canvas Base */
+    --foreground: 240 8% 7.3%; /* #111114 - Primary Near-black */
+
+    --card: 0 0% 100%; /* #FFFFFF - Surface Elevation */
+    --card-foreground: 240 8% 7.3%; /* #111114 */
+
+    --popover: 0 0% 100%; /* #FFFFFF */
+    --popover-foreground: 240 8% 7.3%;
+
+    --primary: 252 100% 66.9%; /* #7856FF - Electric Violet */
+    --primary-foreground: 0 0% 100%; /* #FFFFFF */
+
+    --secondary: 60 6% 95.3%; /* #F4F4F2 - Subtle Surface / Hover */
+    --secondary-foreground: 240 8% 7.3%; /* #111114 */
+
+    --muted: 60 6% 95.3%; /* #F4F4F2 */
+    --muted-foreground: 240 4% 54.1%; /* #85858F - Structural labels */
+
+    --accent: 60 6% 95.3%; /* #F4F4F2 */
+    --accent-foreground: 240 8% 7.3%; /* #111114 */
+
+    --destructive: 0 84.2% 60.2%;
+    --destructive-foreground: 0 0% 98%;
+
+    --border: 240 5% 92.2%; /* #EAEAEC - 1px Hairline */
+    --input: 240 5% 92.2%; /* #EAEAEC */
+    --ring: 252 100% 66.9%; /* #7856FF - Focus ring */
+
+    --radius: 0.5rem; /* 8px base radius */
+
+    /* Sidebar Kinetix Theme */
+    --sidebar: 0 0% 100%; /* #FFFFFF */
+    --sidebar-foreground: 240 8% 7.3%;
+    --sidebar-primary: 252 100% 66.9%;
+    --sidebar-primary-foreground: 0 0% 100%;
+    --sidebar-accent: 60 6% 95.3%; /* #F4F4F2 */
+    --sidebar-accent-foreground: 240 8% 7.3%;
+    --sidebar-border: 240 5% 92.2%; /* #EAEAEC */
+    --sidebar-ring: 252 100% 66.9%;
+
+    /* Kinetix Direct Token Utilities */
+    --kinetix-violet: #7856ff;
+    --kinetix-violet-hover: #6644ee;
+    --kinetix-canvas: #fafaf8;
+    --kinetix-surface: #ffffff;
+    --kinetix-hover: #f4f4f2;
+    --kinetix-border: #eaeaec;
+    --kinetix-text: #111114;
+    --kinetix-muted: #85858f;
+    --kinetix-badge-bg: #f0f0ee;
+    --kinetix-badge-text: #61626b;
+  }
+
   body {
     margin: 0;
-    font-family: system-ui, sans-serif;
+    font-family:
+      "Inter",
+      -apple-system,
+      BlinkMacSystemFont,
+      "Segoe UI",
+      Roboto,
+      sans-serif;
     font-size: 14px;
+    background-color: hsl(var(--background));
+    color: hsl(var(--foreground));
+    -webkit-font-smoothing: antialiased;
+    -moz-osx-font-smoothing: grayscale;
   }
 }

diff --git a/apps/dashboard/index.html b/apps/dashboard/index.html
@@ -4,11 +4,17 @@
     <meta charset="UTF-8" />
     <link rel="icon" type="image/svg+xml" href="/favicon.svg" />
     <meta name="viewport" content="width=device-width, initial-scale=1.0" />
+    <link rel="preconnect" href="https://fonts.googleapis.com" />
+    <link rel="preconnect" href="https://fonts.gstatic.com" crossorigin />
+    <link
+      href="https://fonts.googleapis.com/css2?family=Inter:wght@400;500;600;700&display=swap"
+      rel="stylesheet"
+    />
     <meta
       name="description"
-      content="LocalBrief — local business opportunity briefs for agencies"
+      content="Kinetix — automated opportunity engine for local businesses"
     />
-    <title>LocalBrief</title>
+    <title>Kinetix</title>
   </head>
   <body>
     <div id="root"></div>
